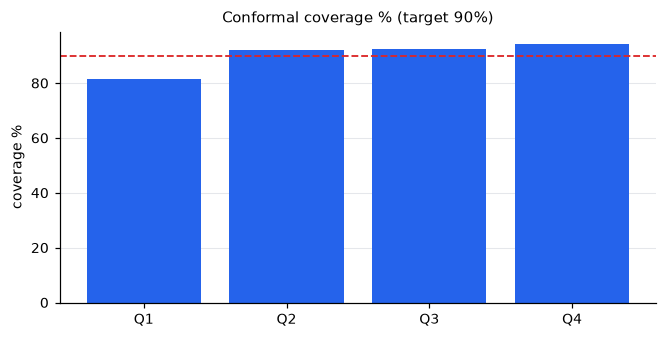
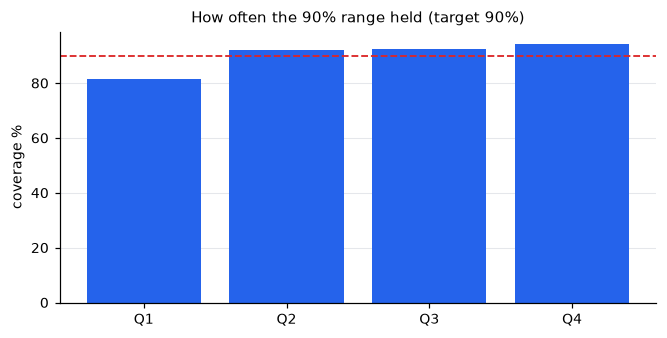
feat(car-price): sync the rewritten decision note and technical report
The generator rewrote two of the three documents yesterday evening; the SHAP report
is byte-identical to what the site already carries, so only these move.

The decision note opens on an executive line now — who it is for, what it licenses,
what it is worth, where it stops — and the provenance stamp and the sibling link to
the technical report are gone from the generator's own output. Its cluster section
went too: the three-profile table, the note about the automatic naming, and the
segment-median figure. It gained the stock-level reading of the gain (~₺8M across a
hundred cars) and an action for listings whose text mentions a conversion or an
engine swap, which is where the largest errors live.

The technical report gained an opening abstract: the two questions, the 29,988
listings, 6.5% / ₺110K / 0.9744, the 42% lift, and that every figure is 5-fold out
of fold.

Only one figure actually changed, and only its title: 12-coverage now says how often
the 90% range held rather than naming the conformal method. The underlying numbers
did not move — the generator's data drop predates report-data.json and their
domain.conformal blocks are identical — so the native chart was already in sync and
no data refresh was needed.

02-segment-median leaves with the section that referenced it; the published set is
back to exactly the 64 slugs the three documents ask for. Its native builder stays:
a figure file comes back with the next sync, a builder would have to be written
[…]

Changed region(s): [[0.2699, 0.0296, 0.8096, 0.0888]]

diff --git a/app/_site/reports/figures.tsx b/app/_site/reports/figures.tsx
@@ -88,6 +88,9 @@ export function buildReportFigures(d: any, lang: Lang): Record<string, Fig> {
         [{ type: 'bar', orientation: 'h', y: body.map((r: any) => r[0]), x: body.map((r: any) => r[1]), marker: { color: green }, hovertemplate: '%{y}: %{customdata}<extra></extra>', customdata: body.map((r: any) => fmtM(r[1])) }],
         base({ margin: { t: 8, r: 16, b: 24, l: 8 } }), 300);
 
+    // No document asks for this slug right now: the generator dropped the cluster section
+    // from the decision note on 2026-09-22 and took the figure with it. Kept because a figure
+    // file returns with the next sync while a builder would have to be written again.
     const seg = [...(dom.segment_ladder || [])].sort((a: any, b: any) => a[1] - b[1]);
     put('02-segment-median',
         [{ type: 'bar', x: seg.map((r: any) => r[0]), y: seg.map((r: any) => r[1]), marker: { color: green }, text: seg.map((r: any) => fmtM(r[1])), textposition: 'outside', hovertemplate: '%{x}: %{text} · %{customdata} ' + L('ilan', 'listings') + '<extra></extra>', customdata: seg.map((r: any) => fmtN(r[2])) }],

diff --git a/app/_site/reports/report-source.ts b/app/_site/reports/report-source.ts
@@ -28,10 +28,11 @@ export type Block =
 
 const DIR = path.join(process.cwd(), 'content', 'reports');
 /**
- * The provenance stamp the generator puts under a document's title: which JSON it read and
- * which script wrote it. That line is addressed to whoever opens the .md on disk — on the site
- * it names internal paths a reader has no use for, and the decision note is the only one of the
- * three documents carrying it.
+ * The provenance stamp the generator used to put under a document's title: which JSON it
+ * read and which script wrote it. That line is addressed to whoever opens the .md on disk;
+ * on the site it names internal paths a reader has no use for. The generator has since
+ * dropped it, so this is a guard rather than an active filter — one line, no way to match
+ * real report prose, and it keeps those paths off the page if a later run brings it back.
  *
  * Dropped here rather than in the generator, so the copy under content/ stays byte-identical to
  * the generator output and a re-sync stays a plain file copy.

diff --git a/content/reports/car-price/business.tr.md b/content/reports/car-price/business.tr.md
@@ -1,18 +1,16 @@
 # İkinci El Araç Piyasası Analizi — Karar Notu
 
-> Üretilmiş dosya — kaynak `clean/data/site_data.json`, üreteç `clean/car_price_report/build_report.py`. Her sayı JSON'dan okunur.
-
-Teknik dayanak: [technical.tr.md](technical.tr.md)
+**Kime:** fiyatlama ekibi ve galeri. **Karar:** model, fiyat önerisi aracında birincil referans olarak kullanılabilir; ucuz (₺1.15M altı), emsalsiz ve 18 yaş üstü araçlarda tek başına kullanılmamalı. **Kazanç:** araç başına ~₺81K daha az fiyatlama hatası. **Sınır:** ilan fiyatını tahmin eder, satış fiyatını değil.
 
 ## Ne kadar değerinde?
 
-Galerinin refleksi — *aynı model, aynı yıl, medyana bak* — ortalama **₺191K** yanılıyor; model **₺110K** — **%42 daha iyi**, araç başına **₺81K**.
+Galerinin refleksi — *aynı model, aynı yıl, medyana bak* — ortalama **₺191K** yanılıyor; model **₺110K** — **%42 daha iyi**, araç başına **₺81K**. 100 araçlık bir stokta bu, yaklaşık **₺8M**'lik fiyatlama hatası farkı demek.
 
 Farkı kapatan, model ve yılın ötesi: kilometre, hasar, motor.
 
 ![Ortalama hata: galeri refleksi vs model](figures/tr-00-base-vs-model.png)
 
-**Emsal yoksa taban çöküyor** — en alt basamakta ortalama hata **6.1 katına** çıkıyor. Model de emsalsiz araçta zorlanıyor (aşağıda):
+**Emsal yoksa taban çöküyor** — en alt basamakta ortalama hata, model+yıl basamağının **6.1 katı**. Model de emsalsiz araçta zorlanıyor (aşağıda):
 
 | taban basamağı | ilan | pay | ortalama hata |
 |---|---:|---:|---:|
@@ -39,19 +37,7 @@ Yaş ve kilometre ayrı ama birbirine bağlı iki eksen. Düşük-km yaşlı ara
 
 ![Kilometreye göre fiyat (medyan + ort.)](figures/tr-06-km-price.png)
 
-Kümeleme piyasayı 3 profile ayırıyor (k=3 yorumlanabilirlik için sabit seçildi; veride belirgin doğal küme yok — bkz. teknik §5):
-
-| küme | ilan | medyan | yaş | km | motor (hp) | ağır hasar |
-|---|---:|---:|---:|---:|---:|---:|
-| Yaşlı & yüksek-km ekonomik · ağır hasar %5 | 9.046 | ₺1.32M | 14 | 253k | 177 | %5 |
-| Genç & temiz premium | 15.976 | ₺1.95M | 9 | 128k | 150 | %2 |
-| Yaşlı & yüksek-km ekonomik · ağır hasar %13 | 4.966 | ₺1.06M | 14 | 247k | 150 | %13 |
-
-> Not: otomatik adlandırma iki kümeye aynı adı vermiş; ayıran eksen **hasar yoğunluğu** — boyalı/değişen panel (teknik §5); tablodaki ağır hasar sütunu bunun görünen yüzü. Adlar elle düzeltilmedi.
-
-![Segmente göre medyan fiyat](figures/tr-02-segment-median.png)
-
-**Markadan hareket çıkmaz.** Seri+modelin üzerine markayı eklemek ortalama hatayı hiç oynatmıyor (MAPE farkı 0.00 puan) — marka zaten modelin içinde.
+**Markadan hareket çıkmaz.** Seri+modelin üzerine markayı eklemek ortalama hatayı hiç oynatmıyor — marka zaten modelin içinde.
 
 ![Medyan fiyat: BMW vs Audi](figures/tr-07-brand.png)
 
@@ -69,22 +55,23 @@ Model ucuz araçlarda zorlanıyor — hata fiyat çeyreğine göre belirgin değ
 
 Bu yüzden çıktı tek sayı değil, **%90 aralık**. Ama aralık ucuz araçlarda tutmuyor: en ucuz çeyrekte gerçek kapsama **%81.6**, hedefin altında.
 
-![Conformal kapsama % (hedef %90)](figures/tr-12-coverage.png)
+![%90 aralık kaç ilanda tuttu (hedef %90)](figures/tr-12-coverage.png)
 
 **Ne yapmalı**
 
 - Ucuz araçlarda aralığı genişlet — tek sayıya güvenme.
 - Nadir ve uç araçları elle fiyatla; model orada saçılıyor.
+- Metninde dönüşüm, motor değişimi ya da modifiye geçen ilanı otomatik fiyatlama, elle incele; bu bilgi formda yok ve en büyük hataların kaynağı.
 - Aylık yeniden eğit — piyasa seviyesi kaydı (+%5.3), model zamanı görmüyor.
 
 ![Daha çok veri, daha az hata — tek dönem vs biriken dönemler](figures/tr-15-backtest.png)
 
 ## Bu model neyi vermez
 
-- **Satış fiyatını.** İlan fiyatını tahmin eder; pazarlık payı hedefin içinde kalır.
+- **Satış fiyatını.** İlan fiyatını tahmin eder; satış fiyatı pazarlıkla bunun altına iner.
 - **Nedenselliği.** Bunlar kontrollü ilişkiler; "boya yaptır, fiyat düşer" demez.
 - **Belirli bir hasarlının değerini.** Model hasarı panel bazında görüyor (boyalı · değişen · ağır hasar kaydı) ama **şiddetini** görmüyor: çizik de pert de aynı bayrağa düşüyor.
 - **Donanım ve modifiyeyi.** Full donanımlı araç, modelin gözünde aynı aracın donanımsız hâliyle aynı.
 - **BMW ve Audi dışını.** Kapsam bu iki marka; premium-Alman segmentine genellenebilir, genel pazara değil.
 
-**Ölçek:** 29.988 ilan, 4 dönem (2026-01-18 – 2026-06-27). Medyan ilan fiyatı ₺1.54M.
+**Ölçek:** 29.988 ilan, 4 tarama dönemi. **Veri:** 2026-01-18 – 2026-06-27. Medyan ilan fiyatı ₺1.54M.

diff --git a/content/reports/car-price/business.en.md b/content/reports/car-price/business.en.md
@@ -1,12 +1,10 @@
 # Used Car Market Analysis — Decision Note
 
-> Generated file — source `clean/data/site_data.json`, generator `clean/car_price_report/build_report.py`. Every number is read from JSON.
-
-Technical backing: [technical.en.md](technical.en.md)
+**For:** the pricing team and the dealership. **Decision:** the model can serve as the primary reference in a price-suggestion tool, but not on its own for cheap (below ₺1.15M), comparable-less or 18+ year-old cars. **Gain:** about ₺81K less pricing error per car. **Limit:** it predicts the asking price, not the sale price.
 
 ## What's it worth?
 
-A dealer's reflex — *same model, same year, look at the median* — misses by **₺191K** on average; the model by **₺110K** — **42% better**, **₺81K** per car.
+A dealer's reflex — *same model, same year, look at the median* — misses by **₺191K** on average; the model by **₺110K** — **42% better**, **₺81K** per car. Across a 100-car stock that is about **₺8M** of pricing error.
 
 The gap it closes is everything beyond model and year: mileage, damage, engine.
 
@@ -39,19 +37,7 @@ Age and mileage are separate but linked axes. A low-km old car is where they div
 
 ![Price by mileage (median + mean)](figures/en-06-km-price.png)
 
-Clustering splits the market into 3 profiles (k=3 was fixed for interpretability; the data has no pronounced natural clusters — see technical §5):
-
-| cluster | listings | median | age | km | engine (hp) | heavy damage |
-|---|---:|---:|---:|---:|---:|---:|
-| Older, high-km economy · 5% heavy damage | 9,046 | ₺1.32M | 14 | 253k | 177 | 5% |
-| Newer, clean premium | 15,976 | ₺1.95M | 9 | 128k | 150 | 2% |
-| Older, high-km economy · 13% heavy damage | 4,966 | ₺1.06M | 14 | 247k | 150 | 13% |
-
-> Note: the auto-naming gave two clusters the same name; the separating axis is **damage density** — painted/changed panels (technical §5); the heavy-damage column is its visible face. The names were not hand-edited.
-
-![Median price by segment](figures/en-02-segment-median.png)
-
-**Brand gives you nothing to act on.** Adding brand on top of series+model does not move the mean error (MAPE delta 0.00 pts) — brand already lives inside model.
+**Brand gives you nothing to act on.** Adding brand on top of series+model does not move the mean error — brand already lives inside model.
 
 ![Median price: BMW vs Audi](figures/en-07-brand.png)
 
@@ -69,22 +55,23 @@ An asking-price error costs money in both directions: **over-estimating hits the
 
 That is why the output is a **90% range**, not one number. But the range does not hold on cheap cars: actual coverage in the cheapest quartile is **81.6%**, below target.
 
-![Conformal coverage % (target 90%)](figures/en-12-coverage.png)
+![How often the 90% range held (target 90%)](figures/en-12-coverage.png)
 
 **What to do**
 
 - Widen the range on cheap cars — don't trust a point estimate.
 - Price rare and edge cars by hand; the model scatters there.
+- Never auto-price a listing whose text mentions a conversion, an engine swap or modifications — price it by hand; that information is not in the form and it is the biggest source of error.
 - Retrain monthly — the market level shifted (+5.3%) and the model is time-blind.
 
 ![More data, less error — single period vs pooled periods](figures/en-15-backtest.png)
 
 ## What this model does not give you
 
-- **The sale price.** It predicts the asking price; the haggling margin sits inside the target.
+- **The sale price.** It predicts the asking price; the sale price lands below it after haggling.
 - **Causation.** These are controlled associations; it won't say "repaint it and the price drops".
 - **The value of one specific damaged car.** The model sees damage panel by panel (painted · changed · heavy-damage record) but not its **severity**: a scratch and a write-off land on the same flag.
 - **Trim and modifications.** A loaded car looks the same to the model as a base one of the same specs.
 - **Anything outside BMW and Audi.** Scope is these two brands; it generalises to the premium German segment, not the whole market.
 
-**Scale:** 29,988 listings, 4 snapshots (2026-01-18 – 2026-06-27). Median asking price ₺1.54M.
+**Scale:** 29,988 listings, 4 scrape snapshots. **Data:** 2026-01-18 – 2026-06-27. Median asking price ₺1.54M.

diff --git a/content/reports/car-price/technical.en.md b/content/reports/car-price/technical.en.md
@@ -1,5 +1,7 @@
 # Used Car Market Analysis — Technical Report
 
+This report answers two questions: what sets a used-car price, and how accurately the model can predict it. The analysis runs over **29,988** Turkish-plated BMW/Audi listings — from cleaning and leakage checks through controlled price effects, market structure, model comparison and time tests. LightGBM is off by **6.5%** on average (MAE: **₺110K**, R²: **0.9744**), **42%** better than the median of the same model and year. Every metric here is computed **5-fold out-of-fold**, on data the model never saw in training.
+
 ## 1. Data cleaning and leakage detection
 
 **45,159 snapshots → 29,988 listings.** The 15,171 rows between are the same ad re-scraped: scrape residue, not data. Latest snapshot per `ad_id`.
@@ -350,7 +352,7 @@ Each point is a model; the y axis is the median error across that model's listin
 
 ![Median error by price quartile (%)](figures/en-10-quartile-error.png)
 
-![Conformal coverage % (target 90%)](figures/en-12-coverage.png)
+![How often the 90% range held (target 90%)](figures/en-12-coverage.png)
 
 | quartile | price range | coverage |
 |---|---|---:|
